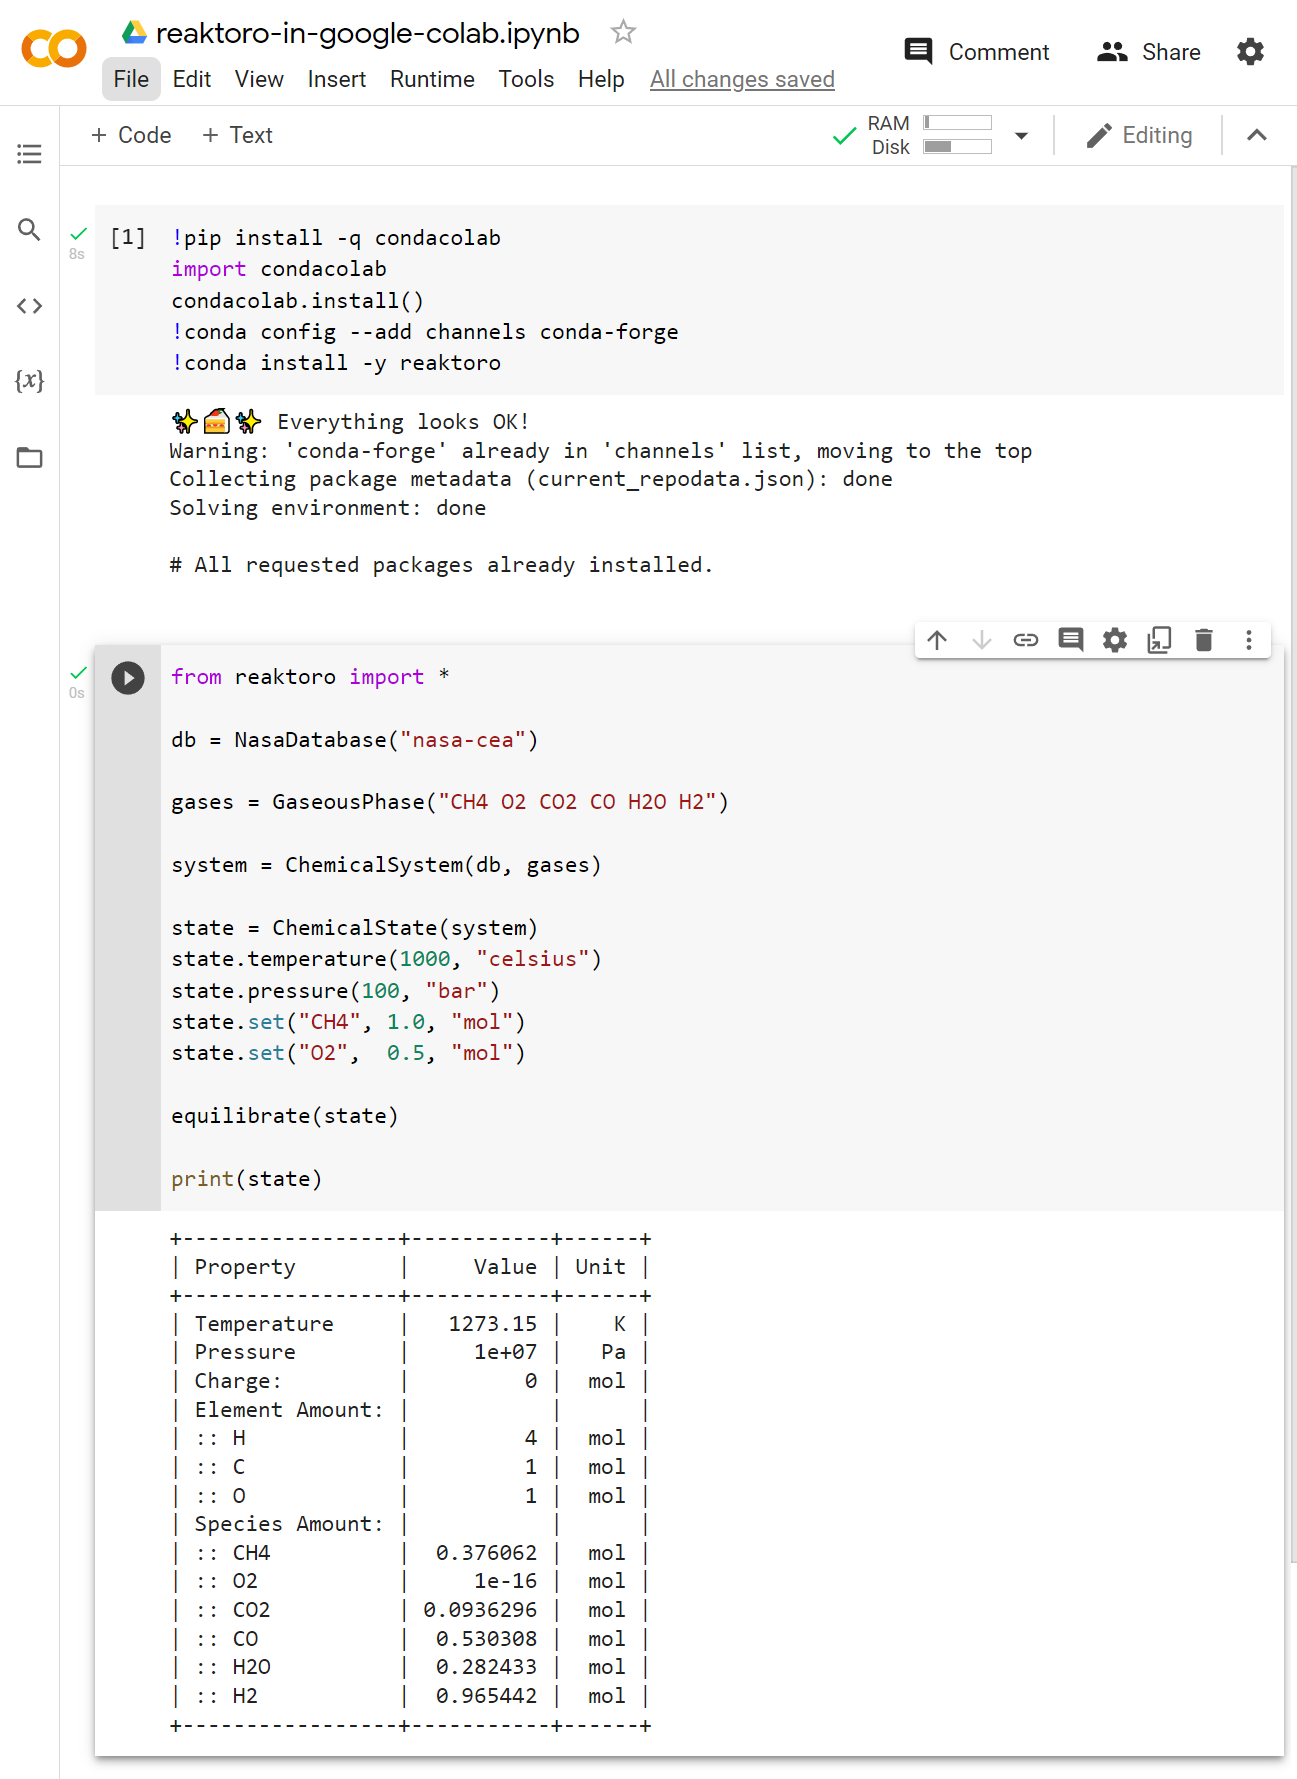
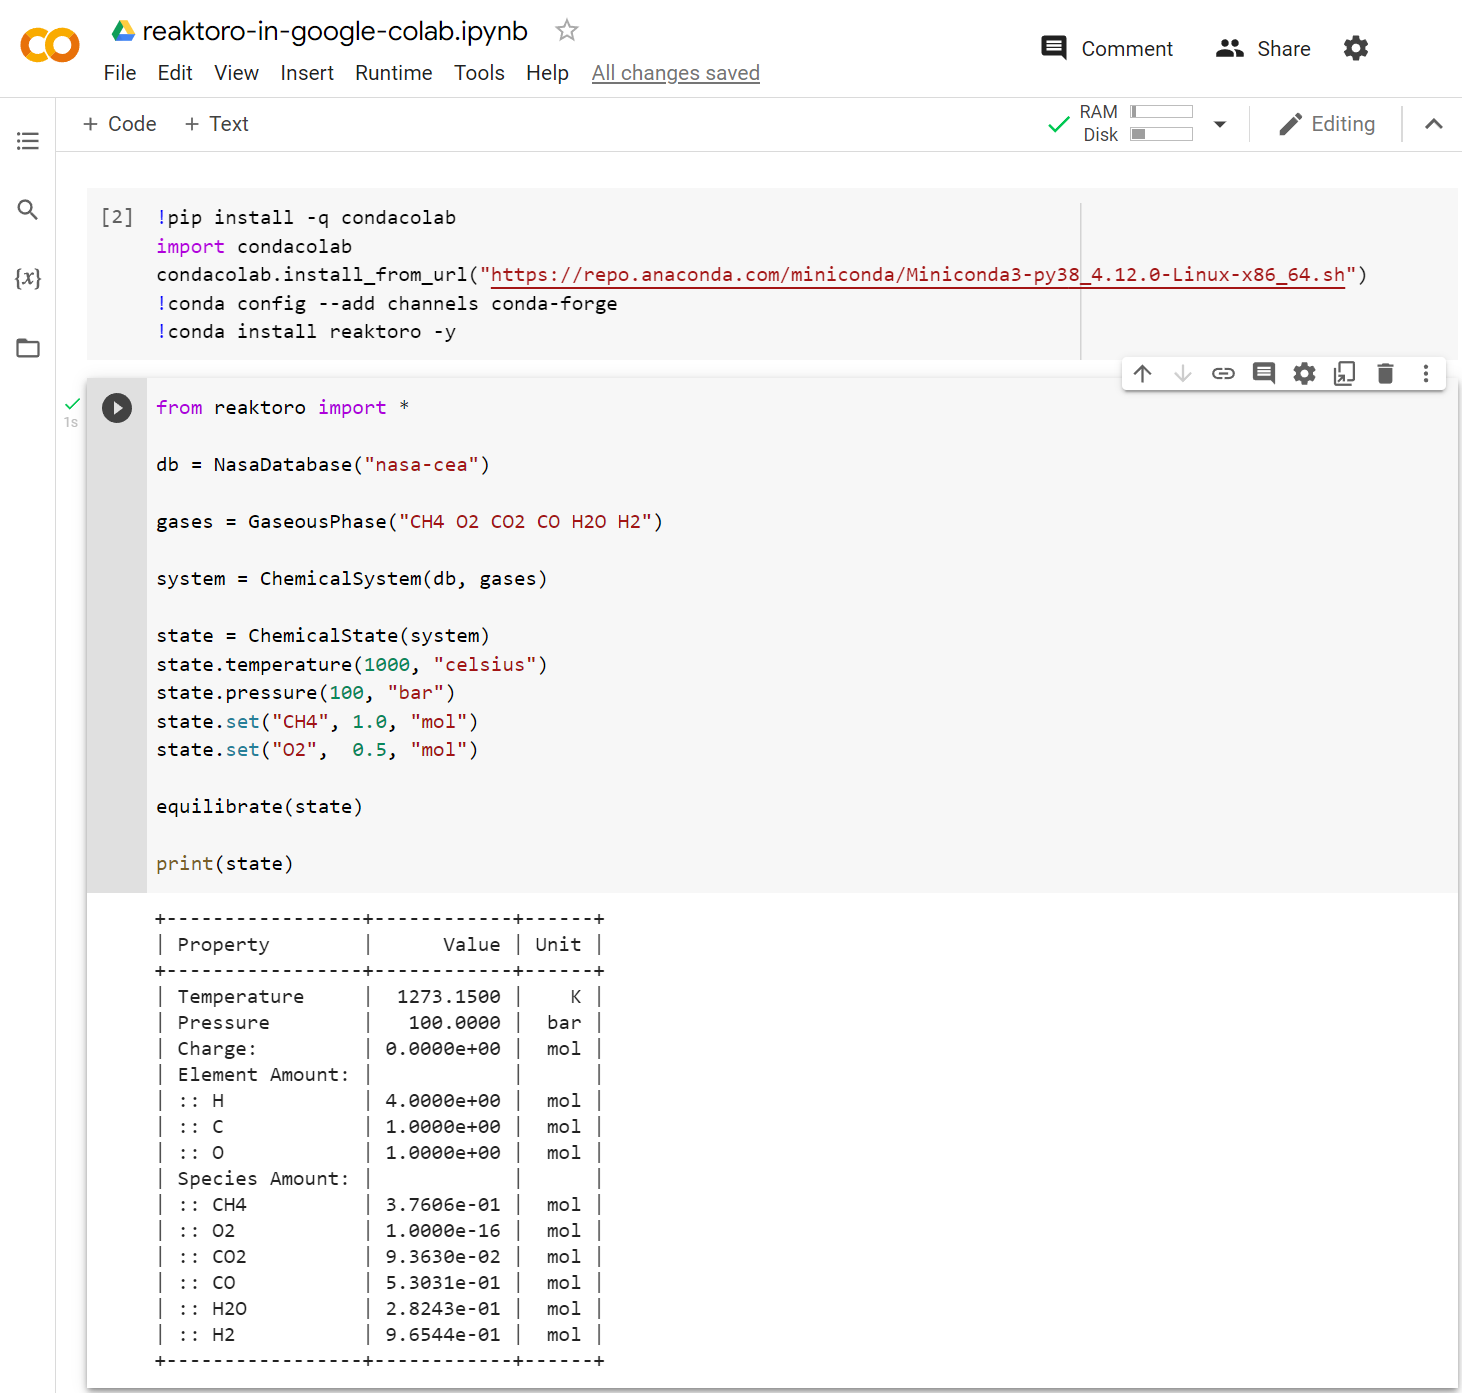
Update Google Colab instructions that work with Python 3.8

diff --git a/installation/installation-in-google-colab.md b/installation/installation-in-google-colab.md
@@ -5,8 +5,9 @@ You can run Reaktoro in [Google Colab](https://colab.research.google.com/). Crea
 ~~~
 !pip install -q condacolab
 import condacolab
-condacolab.install()
-!conda install -y reaktoro
+condacolab.install_from_url("https://repo.anaconda.com/miniconda/Miniconda3-py38_4.12.0-Linux-x86_64.sh")
+!conda config --add channels conda-forge
+!conda install reaktoro -y
 ~~~
 
 Execute this first cell, and then the code below in a new cell:
@@ -31,7 +32,7 @@ equilibrate(state)
 print(state)
 ~~~
 
-Below is a screenshot showing the expected result of this guide when following the previous instructions:
+Here is a [shared link to a Google Colab notebook](https://colab.research.google.com/drive/13UsI3Tj0ZRX6ea8_xoezry6mO0Ghq-vV?usp=sharing) demonstrating this guide. We also show below a screenshot showing the expected result of this guide when following the previous instructions (with cleared output for the first cell because it's too long):
 
 ![](../images/reaktoro-in-google-colab.png)
 
